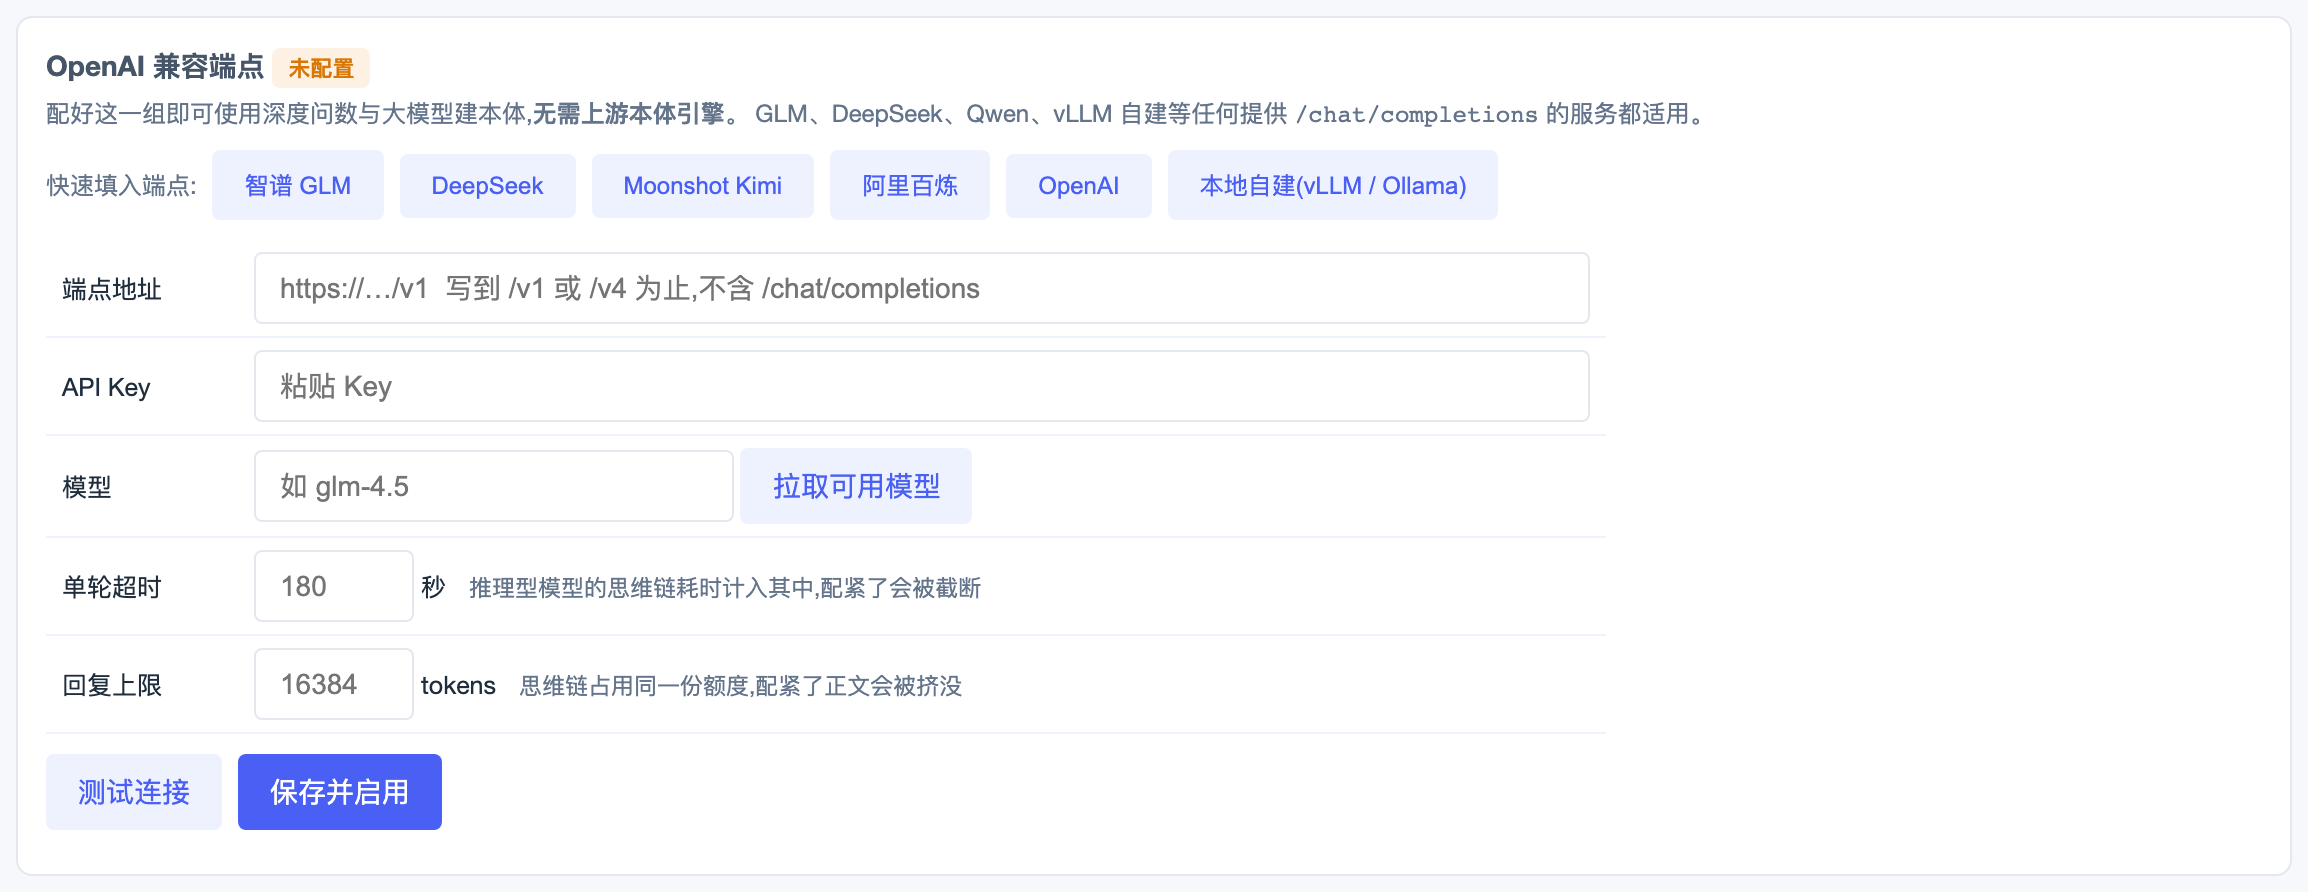
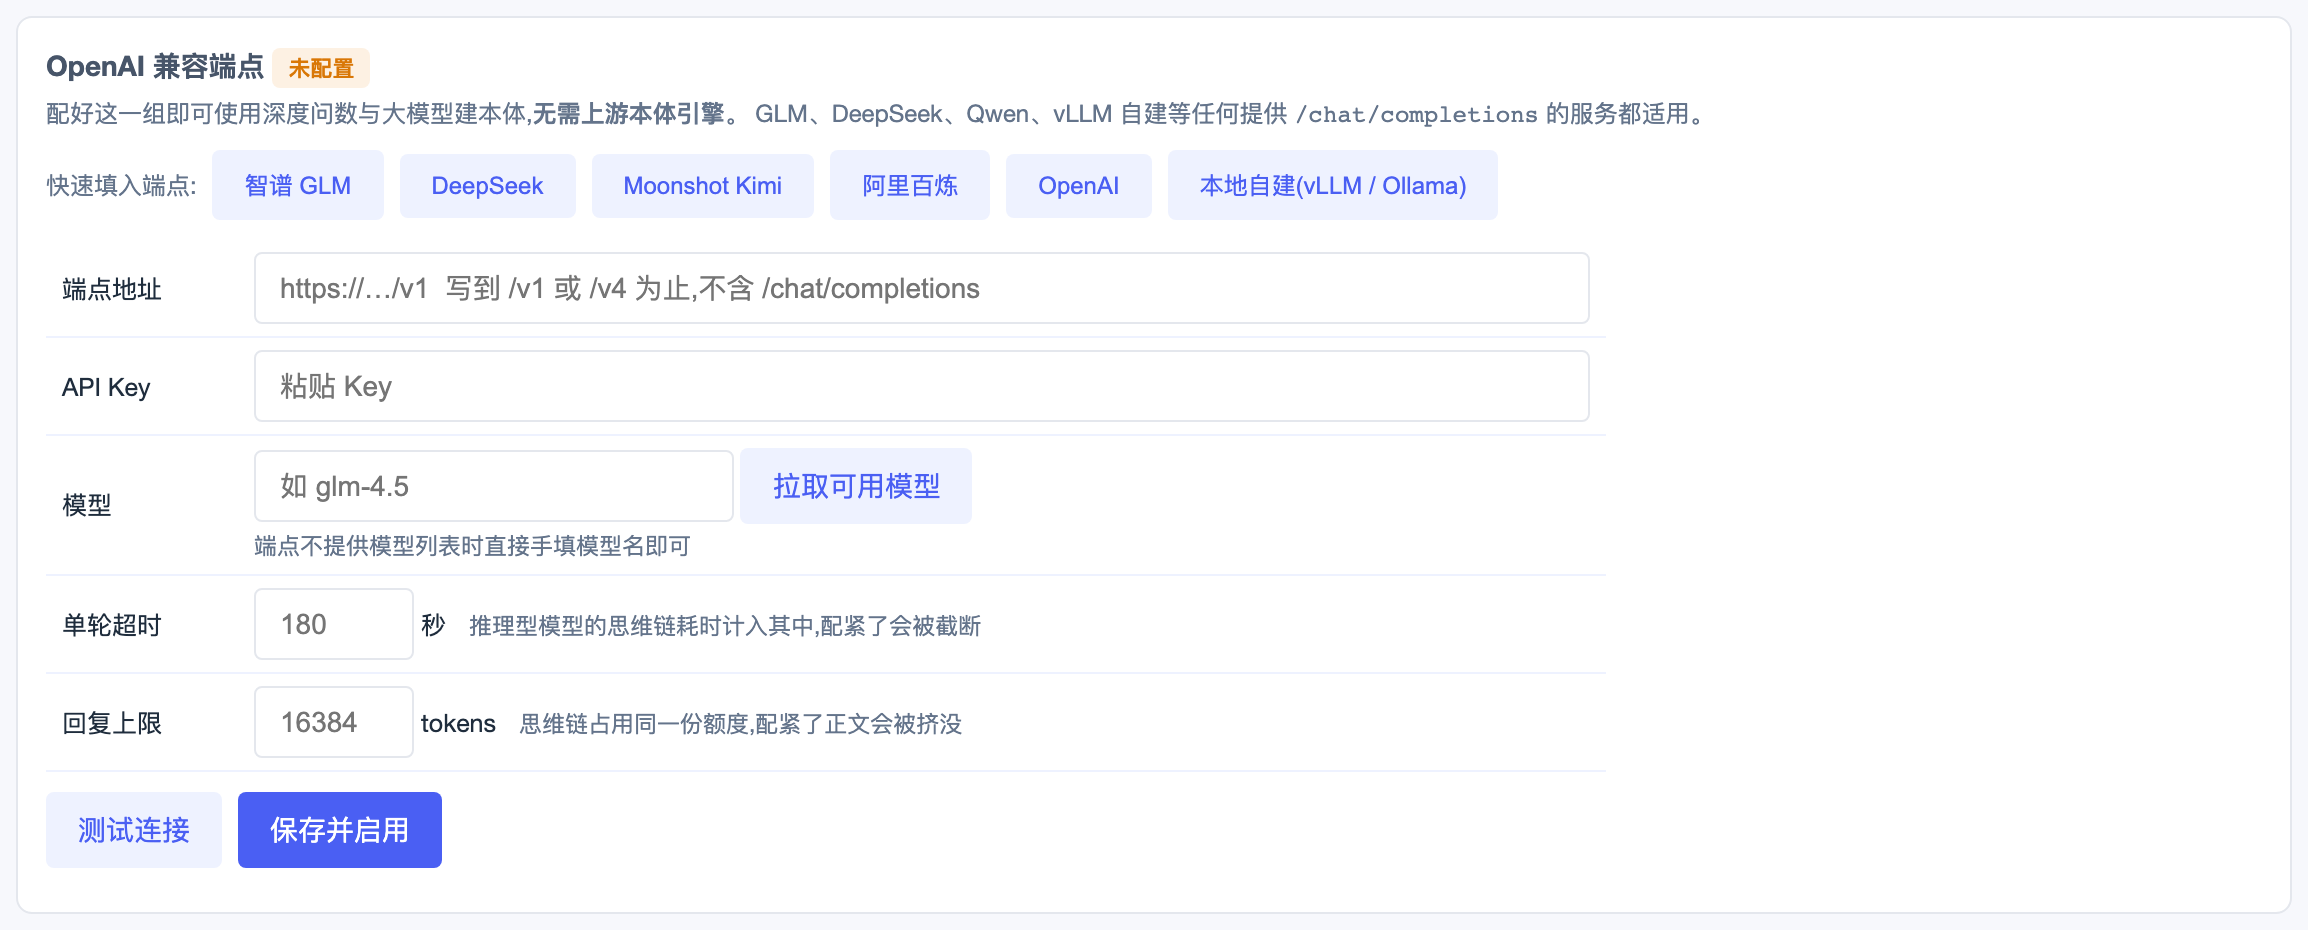
模型选择改为可见下拉;全站 UI 元素巡检,清零 datalist
反馈:界面显示「已拉到 8 个模型,点输入框可选」,却看不到任何下拉菜单。

实测确认:8 个候选确实在 datalist 里,但 datalist 是浏览器原生下拉 ——
DOM 上不可见、没有下拉箭头这类可见入口,且输入框已有值时会按值过滤,
用户点下去往往一个候选也看不到。提示语让人去点输入框,是把浏览器的实现细节
当成了交互设计。

改为真正的 <select>:拉取成功后才显示(空框会误导),选中即回填到输入框;
输入框保留,供手填列表里没有的模型名。

顺带做了一次全站 UI 元素巡检(27 个页面、432 个按钮、42 个输入、22 个下拉),
按三条判据筛:datalist、可见但无选项的下拉、无文字按钮。查出并修:
- 「按任务选模」三处 datalist —— 同一类缺陷,一并改为下拉+手填
- 「Agent 运行时」卡片里的模型输入 datalist —— 同上
全站 datalist 引用归零。

巡检中另两处经核实属正常:
- viz 页 vz_x/vz_y 在运行 SQL 后才填(该页是写 SQL 取数,非选表取数),
  实测运行后两个下拉都正确填充,是我的巡检脚本查了不存在的 #vz_tbl
- skills 页需上游本体引擎,未接入时本就无内容

两条断言随改动更新:EG10 改查新的下拉 id;EG6 的判据改取服务端实际状态
(测试进程与服务进程的环境变量未必一致)。

README 第三步按新交互改写;三张配图重截。

验证:后端 516/0 · UI 走查 57/0 · UI 实操 47/0 · pyflakes 零告警;
浏览器实测下拉可见、8 项、选中回填。

diff --git a/ui/index.html b/ui/index.html
@@ -1197,8 +1197,10 @@ async function egLoad(){EG=await J('/api/engine/config').catch(e=>({error:''+e})
    return `<div class="step" style="border:1px solid ${cur?'#4A5FF3':'#E5E9F2'};border-radius:8px;padding:10px 12px;${cur?'background:#F5F7FF':''}">
     <b>${esc(nm)}</b> ${cur?'<span class="tag ok">当前引擎</span>':''}
     <div class="muted" style="font-size:12px;margin:3px 0 8px">${esc(sub)}</div>
-    <div style="margin-bottom:6px">模型 <input list="eg_ml_${esc(r)}" id="eg_m_${esc(r)}" value="${esc(m)}" placeholder="缺省" style="width:210px">
-     <datalist id="eg_ml_${esc(r)}">${opts.map(o=>`<option value="${esc(o)}">`).join('')}</datalist></div>
+    <div style="margin-bottom:6px;display:flex;gap:6px;align-items:center;flex-wrap:wrap">模型
+     ${opts.length?`<select onchange="if(this.value){$('#eg_m_${esc(r)}').value=this.value;}" style="width:132px">
+       <option value="">— 选择 —</option>${opts.map(o=>`<option value="${esc(o)}">${esc(o)}</option>`).join('')}</select>`:''}
+     <input id="eg_m_${esc(r)}" value="${esc(m)}" placeholder="缺省" style="width:150px"></div>
     ${r==='hermes'?`<div style="margin-bottom:6px">Provider <select id="eg_hp" style="width:210px">${EG.hermes_providers.map(p=>`<option value="${esc(p)}" ${p===EG.hermes_provider?'selected':''}>${p||'(hermes 默认)'}</option>`).join('')}</select>
      <div class="muted" style="font-size:11px;margin-top:2px">oauth 类 provider(codex/qwen)需先在终端完成登录;API 类读下方 Key</div></div>`:''}
     <div style="display:flex;gap:6px;margin-top:4px">
@@ -1215,9 +1217,12 @@ async function egLoad(){EG=await J('/api/engine/config').catch(e=>({error:''+e})
   +Object.entries(TN).map(([t,[nm,tip]])=>`<div class="step" style="border:1px solid #E5E9F2;border-radius:8px;padding:10px 12px">
     <b>${esc(nm)}</b>${(EG.task_models||{})[t]?' <span class="tag ok">已覆盖</span>':''}
     <div class="muted" style="font-size:11.5px;margin:3px 0 8px">${esc(tip)}</div>
-    <input list="eg_tm_dl" id="eg_tm_${t}" value="${esc((EG.task_models||{})[t]||'')}" placeholder="(跟随引擎缺省)" style="width:230px">
-    <button class="ghost" onclick="egSaveTask(${jsAttr(t)})">保存</button></div>`).join('')
-  +`</div><datalist id="eg_tm_dl">${allOpts.map(o=>`<option value="${esc(o)}">`).join('')}</datalist>`;
+    <div style="display:flex;gap:6px;flex-wrap:wrap;align-items:center">
+     ${allOpts.length?`<select onchange="if(this.value){$('#eg_tm_${t}').value=this.value;}" style="width:150px">
+       <option value="">— 选择 —</option>${allOpts.map(o=>`<option value="${esc(o)}">${esc(o)}</option>`).join('')}</select>`:''}
+     <input id="eg_tm_${t}" value="${esc((EG.task_models||{})[t]||'')}" placeholder="(跟随引擎缺省)" style="width:180px">
+     <button class="ghost" onclick="egSaveTask(${jsAttr(t)})">保存</button></div></div>`).join('')
+  +`</div>`;
  const KL={OPENAI_API_KEY:'OpenAI',ANTHROPIC_API_KEY:'Anthropic',ZHIPU_API_KEY:'智谱 GLM',DEEPSEEK_API_KEY:'DeepSeek',MOONSHOT_API_KEY:'Moonshot/Kimi',DASHSCOPE_API_KEY:'阿里 DashScope'};
  $('#eg_keys').innerHTML=`<h3 style="margin:0 0 8px">API Keys <span class="muted" style="font-weight:400;font-size:12px">保存即注入进程环境供各 CLI 继承 · 只写不回显 · 订阅版无需 Key</span></h3>`
   +'<table><tr><th>Provider</th><th>当前</th><th>新值</th><th>操作</th></tr>'
@@ -1247,11 +1252,13 @@ function egRenderLLM(){
      placeholder="https://…/v1  写到 /v1 或 /v4 为止,不含 /chat/completions" style="width:100%"></td></tr>
    <tr><td>API Key</td><td><input id="eg_l_key" type="password"
      placeholder="${L.key_set?'已保存 '+esc(L.key||'')+',留空则不改动':'粘贴 Key'}" style="width:100%"></td></tr>
-   <tr><td>模型</td><td><input list="eg_l_ml" id="eg_l_model" value="${esc(L.model||'')}"${lk('model')}
-     placeholder="如 glm-4.5" style="width:240px">
-     <datalist id="eg_l_ml"></datalist>
+   <tr><td>模型</td><td>
+     <select id="eg_l_pick" onchange="egPickModel()"${lk('model')} style="width:240px;display:none"></select>
+     <input id="eg_l_model" value="${esc(L.model||'')}"${lk('model')}
+       placeholder="如 glm-4.5" style="width:240px">
      <button class="ghost" onclick="egFetchModels(this)">拉取可用模型</button>
-     <span class="muted" id="eg_l_ms" style="font-size:12px;margin-left:6px"></span></td></tr>
+     <span class="muted" id="eg_l_ms" style="font-size:12px;margin-left:6px"></span>
+     <div class="muted" style="font-size:11.5px;margin-top:3px">端点不提供模型列表时直接手填模型名即可</div></td></tr>
    <tr><td>单轮超时</td><td><input id="eg_l_timeout" value="${esc(L.timeout||'')}"${lk('timeout')}
      placeholder="180" style="width:80px"> 秒
      <span class="muted" style="font-size:11.5px;margin-left:8px">推理型模型的思维链耗时计入其中,配紧了会被截断</span></td></tr>
@@ -1276,8 +1283,15 @@ async function egFetchModels(btn){
    body:JSON.stringify({base:b.base,key:b.key})}).catch(e=>({error:''+e}));
  btn.disabled=false;
  if(r.error||!r.models||!r.models.length){o.textContent='拉取失败:'+(r.error||'该端点未提供模型列表接口')+' —— 可直接手填模型名';return;}
- $('#eg_l_ml').innerHTML=r.models.map(m=>`<option value="${esc(m)}">`).join('');
- o.textContent=`已拉到 ${r.count} 个模型,点输入框可选`;}
+ const cur=($('#eg_l_model')||{}).value||'';
+ const sel=$('#eg_l_pick');
+ sel.innerHTML='<option value="">— 选择模型 —</option>'
+   +r.models.map(m=>`<option value="${esc(m)}" ${m===cur?'selected':''}>${esc(m)}</option>`).join('')
+   +(cur&&!r.models.includes(cur)?`<option value="${esc(cur)}" selected>${esc(cur)}(自定义)</option>`:'');
+ sel.style.display='';                                  // 拉到了才显示下拉,免得空框误导
+ o.textContent=`已拉到 ${r.count} 个模型,在左侧下拉里选,或继续手填`;}
+function egPickModel(){const sel=$('#eg_l_pick'), inp=$('#eg_l_model');
+ if(sel&&inp&&sel.value){inp.value=sel.value;}}
 async function egLLMTest(btn){
  const o=$('#eg_l_out'); btn.disabled=true; o.innerHTML='<span class="muted">测试中…(推理型模型可能需要数十秒)</span>';
  const r=await J('/api/engine/llm/test',{method:'POST',headers:{'Content-Type':'application/json'},

diff --git a/test_all.py b/test_all.py
@@ -1232,7 +1232,8 @@ chk("EG4 非法端点协议被拒", _bad.status_code == 400)
 _bad2 = po("/api/engine/config", json={"llm": {"timeout": "-5"}})
 chk("EG5 非法超时被拒", _bad2.status_code == 400)
 _t1 = po("/api/engine/llm/test", json={"base": "", "key": "", "model": ""})
-_has_env = bool(_os.environ.get("DATAMIND_LLM_BASE") and _os.environ.get("DATAMIND_LLM_KEY"))
+# 判据取服务端实际是否已有可用端点(测试进程的 env 与服务进程未必一致)
+_has_env = bool(_ec.get("llm", {}).get("base") and _ec.get("llm", {}).get("key_set"))
 chk("EG6 缺参时:有已保存配置则回落沿用,否则如实报错",
     (_t1.status_code == 200 or _t1.json().get("ok") is not None) if _has_env
     else (_t1.status_code == 400 and not _t1.json().get("ok")),
@@ -1244,7 +1245,7 @@ chk("EG8 模型列表:缺参时回落已保存配置或如实报错",
     _m1.status_code in (200, 400) and ("models" in _m1.json() or "error" in _m1.json()))
 chk("EG9 前端有端点配置卡与测试/保存/清除三个动作",
     'id="eg_llm"' in _ui and "egLLMTest" in _ui and "egLLMSave" in _ui and "egLLMClear" in _ui)
-chk("EG10 前端能拉取模型列表并填进候选", "egFetchModels" in _ui and 'id="eg_l_ml"' in _ui)
+chk("EG10 前端能拉取模型列表并填进可见下拉", "egFetchModels" in _ui and 'id="eg_l_pick"' in _ui)
 chk("EG11 env 注入项在界面置灰(以部署配置为准)", "env_locked" in _ui and "环境变量注入" in _ui)
 chk("EG12 端点配好后自动切换运行时(免去『配了没反应』)",
     "switched_from" in open("server.py", encoding="utf-8").read() and "switched_from" in _ui)
@@ -1252,6 +1253,12 @@ chk("EG13 报错详情里的 Key 被掩码", "_mask_in_text" in open("server.py"
 # env_locked 只能按「启动时该环境变量是否存在」判定:原先拿配置文件与 env 比对,
 # 值恰好相同就漏判为未锁定,界面会让人误以为可改
 _srv_src = open("server.py", encoding="utf-8").read()
+# datalist 是浏览器原生下拉:DOM 上不可见、无下拉箭头,输入框有值时还按值过滤 ——
+# 用户看到「已拉到 8 个模型」却找不到在哪选。全站一律改用可见的 <select>
+chk("EG19 全站不再使用 datalist(无可见入口,用户找不到候选)", "datalist" not in _ui)
+chk("EG20 模型下拉在拉取成功后才显示,并回填输入框",
+    'id="eg_l_pick"' in _ui and "egPickModel" in _ui and "sel.style.display=''" in _ui)
+
 # 构成规则页曾直接 rt.runtimes.map:后端故障返回 {error} 时缺该字段,整页崩
 chk("EG17 构成规则页对 runtimes 缺失有守卫",
     "Array.isArray(rt.runtimes)" in _ui and "无可用运行时" in _ui)

diff --git a/README.md b/README.md
@@ -74,7 +74,7 @@ python3 server.py                  # 前台运行 → http://127.0.0.1:8092
 
 ```bash
 curl http://127.0.0.1:8092/api/overview      # KPI 概览(无库时含 warning 字段)
-python3 test_all.py                          # 系统级回归(514 断言;需服务已启动)
+python3 test_all.py                          # 系统级回归(516 断言;需服务已启动)
 ```
 
 ### 5. 跑通 demo(五分钟看完主链路)
@@ -171,7 +171,8 @@ GLM、DeepSeek、Qwen、Moonshot、以及 vLLM / Ollama 自建服务都适用。
 不提供明文回读。已保存过 Key 时,该框留空表示不改动,便于只改模型名。
 
 **第三步,选模型。** 点「拉取可用模型」会向端点的 `/models` 接口取一次真实列表,
-填进候选供选择。部分服务不提供该接口,直接手填模型名即可——界面会如实告诉你拉取失败。
+拉到后左侧出现下拉框,选中即回填到右侧输入框。部分服务不提供该接口,
+直接在输入框手填模型名即可——界面会如实告诉你拉取失败。
 
 **第四步,先测后存。** 点「测试连接」用**你正在填的这份配置**发一次最小请求:
 
@@ -260,7 +261,7 @@ curl -s http://127.0.0.1:8092/api/ont/runtimes
 
 ```bash
 python3 server.py &            # 先起服务
-python3 test_all.py            # 系统级回归(514 断言)
+python3 test_all.py            # 系统级回归(516 断言)
 python3 test_ui.py             # 全 UI 走查:26 页渲染 + 子 UI 交互(57 断言;需 playwright)
 python3 test_ui_ops.py         # UI 逐步实操(46 断言):切引擎/建本体/对话改本体/审计/问数/选本体锚定 全动线
 ```

diff --git a/ARCHITECTURE.md b/ARCHITECTURE.md
@@ -78,7 +78,7 @@
 
 ## 5. 测试与质量门
 
-`test_all.py`(514 集成断言,覆盖每路由 happy+边界+安全)· `test_ui.py`(57,全页走查)·
+`test_all.py`(516 集成断言,覆盖每路由 happy+边界+安全)· `test_ui.py`(57,全页走查)·
 `test_ui_ops.py`(46,真实浏览器逐步实操:切引擎/建本体/对话改本体/审计/问数/选本体锚定)·
 pyflakes 零告警 · 构建产物经 SHACL/HermiT 校验 · 完备度记分卡量化可审计程度。
 

diff --git a/INSTALL.md b/INSTALL.md
@@ -98,7 +98,7 @@ curl -s http://127.0.0.1:8092/api/ont/runtimes  # 已注册的模型运行时
 完整回归:
 
 ```bash
-python3 test_all.py        # 系统级,514 条断言,需服务已启动
+python3 test_all.py        # 系统级,516 条断言,需服务已启动
 python3 test_ui.py         # 全页面走查,57 条,需 playwright
 python3 test_ui_ops.py     # 浏览器逐步实操,46 条,含三轮真实问数,耗时约 12 分钟
 ```
